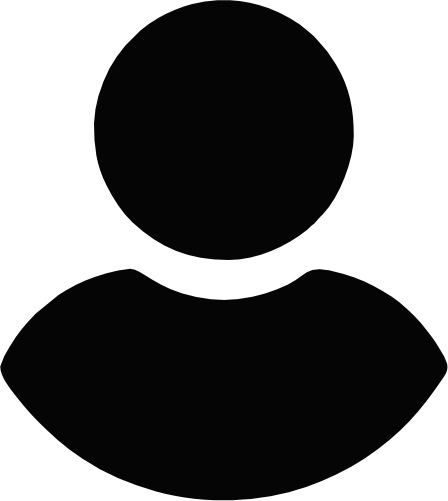
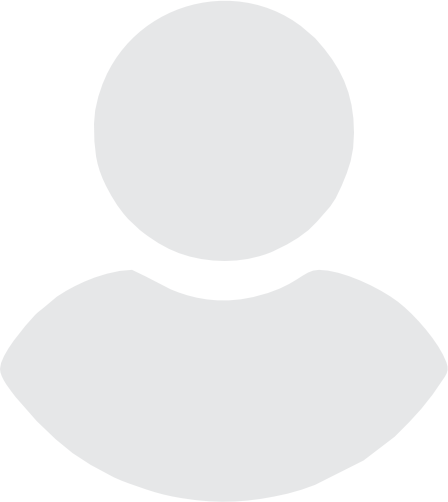
Actualizacion

diff --git a/src/components/Layout/SongForm/SongForm.js b/src/components/Layout/SongForm/SongForm.js
@@ -1,11 +1,11 @@
-import { useEffect, useState } from "react"
 import { Form, FormButton, FormGroup, FormInput, FormTextArea, } from "semantic-ui-react"
 import { useFormik } from "formik"
 import { initialValues, validationSchema } from "@/components/SongForm"
 import { Addsong } from "@/api"
 import { useAuth } from "@/hooks"
+import { Toaster, toast } from "sonner"
 
-const addSongCtrl = new Addsong();
+const addSongCtrl = new Addsong()
 
 export function SongForm(props) {
 
@@ -13,10 +13,7 @@ export function SongForm(props) {
 
   const {user} = useAuth()
 
-  //const [timeout, setTimeout] = useState()
-
   const countDown = () => {
-   
   //guardar el tiempo actual en el localstorage. 
   //restarlo el nuevo tiempo acutal con el guardado, comprobar si tiene mas de 10min.
   localStorage.setItem("countdown",Date.now().toString());
@@ -39,11 +36,13 @@ export function SongForm(props) {
         addStatus()
         countDown()
         onReload()
+        toast.success(' ¡ Canción agregada correctamente ! ')
       } catch (error) {
+        toast.error(' ¡ Error al agregar canción ! ')
         console.error(error);
       }
     },
-  });
+  })
 
   return (
     <Form onSubmit={formik.handleSubmit}>
@@ -81,6 +80,13 @@ export function SongForm(props) {
           Cancelar
         </FormButton>
       </FormGroup>
+      <Toaster 
+        theme="dark"
+        position="bottom-center"
+        duration={8000}
+        visibleToasts={1}
+        richColors
+      />
     </Form>
-  );
+  )
 }

diff --git a/src/components/Layout/ListSongs/Song.js b/src/components/Layout/ListSongs/Song.js
@@ -3,6 +3,7 @@ import { useRouter } from 'next/router'
 import { Image } from "semantic-ui-react"
 import { Delsong } from "@/api"
 import { useAuth } from "@/hooks"
+import { Toaster, toast } from "sonner"
 import { Confirm } from "../Confirm"
 import styles from "./ListSongs.module.css"
 
@@ -24,6 +25,7 @@ export function Song(props) {
     try {
       await delSongCtrl.delete(songId)
       onReload()
+      toast.warning(' ¡ canción eliminada correctamente ! ')
     } catch (error) {
       console.error(error);
     }
@@ -69,7 +71,7 @@ export function Song(props) {
           </div>
           {!user ? (
             <div /> ) : 
-          user.username === 'admin' ? (
+            user.username === 'admin' ? (
             <div className={styles.containerActions} onClick={noUser}>
               <Image src="/img/trash.png" />
             </div>
@@ -86,6 +88,14 @@ export function Song(props) {
       onConfirm={onDelete}
       onCancel={openCloseConfirm}
       content='¿ Estas seguro de eliminar la canción ?'
+    />
+
+    <Toaster 
+      theme="dark"
+      position="bottom-center"
+      duration={8000}
+      visibleToasts={1}
+      richColors
     />
   
   </>  

diff --git a/src/components/Auth/LoginForm/LoginForm.js b/src/components/Auth/LoginForm/LoginForm.js
@@ -3,7 +3,8 @@ import { Form, FormButton, FormGroup, FormInput } from "semantic-ui-react";
 import { useFormik } from "formik"
 import { initialValues, validationSchema } from "./LoginForm.form"
 import { useAuth } from "@/hooks"
-import { Auth } from "@/api";
+import { Auth } from "@/api"
+import { Toaster, toast } from "sonner"
 
 const authCtrl = new Auth()
 
@@ -22,6 +23,8 @@ export function LoginForm() {
         login(response.jwt)
         router.push('/')
       } catch (error) {
+          toast.error(' ¡ Usuario y/o contraseña incorrecta ! ')
+        
           console.error(error)
       }
     }
@@ -47,11 +50,22 @@ export function LoginForm() {
       error={formik.errors.password}
     />
     <FormGroup>
-      <FormButton type='submit' size='small' color='grey' loading={formik.isSubmitting} primary>
+      <FormButton 
+        type='submit' 
+        size='small'  
+        loading={formik.isSubmitting} 
+        primary 
+      >
         Entrar
       </FormButton>
     </FormGroup>
+    <Toaster 
+      theme="dark"
+      position="bottom-center"
+      duration={8000}
+      visibleToasts={1}
+      richColors
+    />
   </Form>
-
   )
 }

diff --git a/src/components/Layout/ListSongs/ListSongs.js b/src/components/Layout/ListSongs/ListSongs.js
@@ -5,12 +5,17 @@ import { Listsong } from "@/api"
 import { Song } from "./Song"
 import { Loading } from "../Loading"
 import styles from "./ListSongs.module.css"
-
+import {io} from "socket.io-client"
 
 const listSongCtrl = new Listsong()
 
+const socket = io("http://localhost:1337", {path: "/"})
 export function ListSongs(props) {
 
+  useEffect(() => {
+    socket.on('mensaje', (data) => console.log(data))
+  }, [])
+console.log(socket)
   const { reload, onReload } = props
 
   const [listsong, setListsong] = useState(null)
@@ -20,6 +25,7 @@ export function ListSongs(props) {
       try {
         const response = await listSongCtrl.getAll()
         setListsong(response.data)
+
       } catch (error) {
         console.error(error)
       }

diff --git a/src/pages/join/signin/signin.js b/src/pages/join/signin/signin.js
@@ -1,7 +1,8 @@
 import { JoinLayout } from "@/layouts"
 import { Image } from "semantic-ui-react"
-import styles from './signin.module.css'
 import { LoginForm } from "@/components/Auth/LoginForm/LoginForm"
+import { FaUser } from 'react-icons/fa'
+import styles from './signin.module.css'
 
 export default function Signin() {
 
@@ -11,8 +12,10 @@ export default function Signin() {
       
       <div className={styles.containerSignin}>
         <div className={styles.boxSignin}>
-          <Image src='/img/user.png' />
-          <h1>Iniciar sesión</h1>
+          {/* <Image src='/img/user.png' /> */}
+          <FaUser />
+          
+          <div className={styles.h1}><h1>Iniciar sesión</h1></div>
           
           <LoginForm />
 

diff --git a/src/pages/join/signup/signup.js b/src/pages/join/signup/signup.js
@@ -3,6 +3,7 @@ import styles from './signup.module.css'
 import { Image } from "semantic-ui-react"
 import Link from "next/link"
 import { RegisterForm } from "@/components/Auth/RegisterForm"
+import { FaUserPlus  } from 'react-icons/fa'
 
 
 
@@ -13,8 +14,10 @@ export default function Signup() {
       
       <div className={styles.containerSignin}>
         <div className={styles.boxSignin}>
-          <Image src='/img/adduser.png' />
-          <h1>Crear cuenta</h1>
+          {/* <Image src='/img/adduser.png' /> */}
+          <FaUserPlus />
+
+          <div className={styles.h1}><h1>Crear cuenta</h1></div>
           
           <RegisterForm />
 

diff --git a/src/utils/constants.js b/src/utils/constants.js
@@ -1,8 +1,8 @@
 export const ENV = {
-   /* SERVER_HOST: 'http://localhost:1337',
-  API_URL: 'http://localhost:1337/api',  */
-  SERVER_HOST: 'https://appealing-darling-fe0d7bdfb0.strapiapp.com',
-  API_URL: 'https://appealing-darling-fe0d7bdfb0.strapiapp.com/api', 
+    SERVER_HOST: 'http://localhost:1337',
+  API_URL: 'http://localhost:1337/api',  
+/*  SERVER_HOST: 'https://appealing-darling-fe0d7bdfb0.strapiapp.com',
+  API_URL: 'https://appealing-darling-fe0d7bdfb0.strapiapp.com/api', */
   ENDPOINTS: {
     AUTH: {
       REGISTER: 'auth/local/register',

diff --git a/src/styles/confirm.css b/src/styles/confirm.css
@@ -26,15 +26,15 @@
 }
 
 .ui.button.primary{
-  background-color: gray !important;
+  background-color: darkcyan !important;
 }
 
 .ui.button.primary:hover{
   color: azure !important;
-  background-color: rgb(112, 112, 112) !important;
+  background-color: rgb(0, 148, 148) !important;
 }
 
 .ui.button.primary:active, .ui.button.primary:focus{
   color: azure !important;
-  background-color: gray !important;
+  background-color: rgb(0, 158, 158) !important;
 }

diff --git a/src/pages/join/signin/signin.module.css b/src/pages/join/signin/signin.module.css
@@ -15,15 +15,19 @@
   flex-direction: column;
   align-items: center;
   justify-content: center;
-  background-color: var(--background3);
+  background-color: var(--background1);
 }
 
-.boxSignin img{
+.boxSignin svg{
+  font-size: 70px;
   height: 100px;
 }
 
-.boxSignin h1{
-  margin-top: 12px;
+.h1{
+  margin: 0px 0 10px 0;
+}
+
+.h1 h1{
   font-size: small;
   font-weight: 200;
 

diff --git a/src/pages/join/signup/signup.module.css b/src/pages/join/signup/signup.module.css
@@ -15,15 +15,19 @@
   flex-direction: column;
   align-items: center;
   justify-content: center;
-  background-color: var(--background3);
+  background-color: var(--background1);
 }
 
-.boxSignin img{
+.boxSignin svg{
+  font-size: 85px;
   height: 100px;
 }
 
-.boxSignin h1{
-  margin-top: 12px;
+.h1{
+  margin: 0px 0 10px 0;
+}
+
+.h1 h1{
   font-size: small;
   font-weight: 200;
 

diff --git a/src/components/Layout/TopBar/TopBar.js b/src/components/Layout/TopBar/TopBar.js
@@ -8,11 +8,10 @@ export function TopBar(props) {
   const {user, logout} = useAuth()
   const router = useRouter()
 
-  const {title, onReload} = props
+  const {title} = props
 
   const logoutSignin = () => {
     router.push('join/signin')
-    //onReload()
     logout()
   }
 

diff --git a/src/styles/form.css b/src/styles/form.css
@@ -2,7 +2,7 @@
   font-size: small !important;
   /* text-transform: capitalize !important; */
   color: azure !important;
-  background-color: var(--background1) !important;
+  background-color: var(--background3) !important;
 }
 
 .ui.form input:focus, .ui.form textarea:focus{
